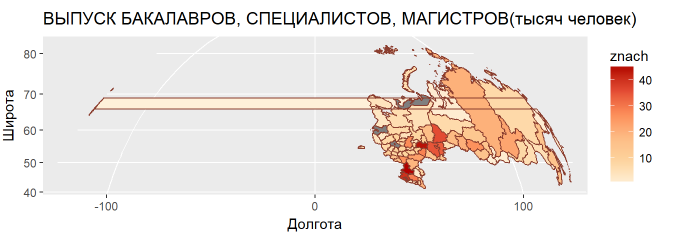
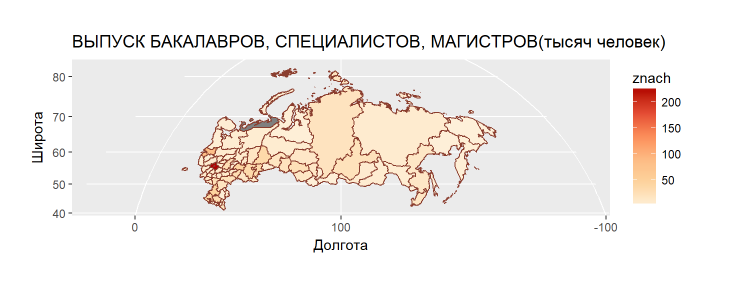
Add files via upload

diff --git a/Lab4.html b/Lab4.html
@@ -145,7 +145,7 @@ stat.Regions &lt;- read.csv(fileURL, sep = &#39;;&#39;, dec = &#39;,&#39;, strin
 #  читаем ShapeFile из папки, с указанием уровня
 Regions &lt;- readOGR(dsn = &#39;./data&#39;,   # папка с файлами .shp,...
                    layer = &#39;RUS_adm1&#39;)           # уровень иерархии</code></pre>
-<p>OGR data source with driver: ESRI Shapefile Source: “D:папка”, layer: “RUS_adm1” with 85 features It has 12 fields Integer64 fields read as strings: ID_0 ID_1 CCN_1</p>
+<p>OGR data source with driver: ESRI Shapefile Source: “D:”, layer: “RUS_adm1” with 85 features It has 12 fields Integer64 fields read as strings: ID_0 ID_1 CCN_1</p>
 <pre class="r"><code># делаем фактор из имён областей (т.е. нумеруем их)
 Regions@data$VARNAME_1 &lt;- as.factor(Regions@data$VARNAME_1 )
 stat.Regions$VARNAME_1 &lt;- stat.Regions$region_Eng
@@ -184,7 +184,7 @@ gp &lt;- ggplot() +
     geom_path(data = Regions.df, 
               aes(long, lat, group = group),
               color = &#39;coral4&#39;) +
-    coord_map(projection = &#39;gilbert&#39;) +
+    coord_map(projection = &#39;gilbert&#39;, orientation = c(90, 0, 100)) +
     scale_fill_distiller(palette = &#39;OrRd&#39;,
                          direction = 1,
                          breaks = pretty_breaks(n = 5)) +
